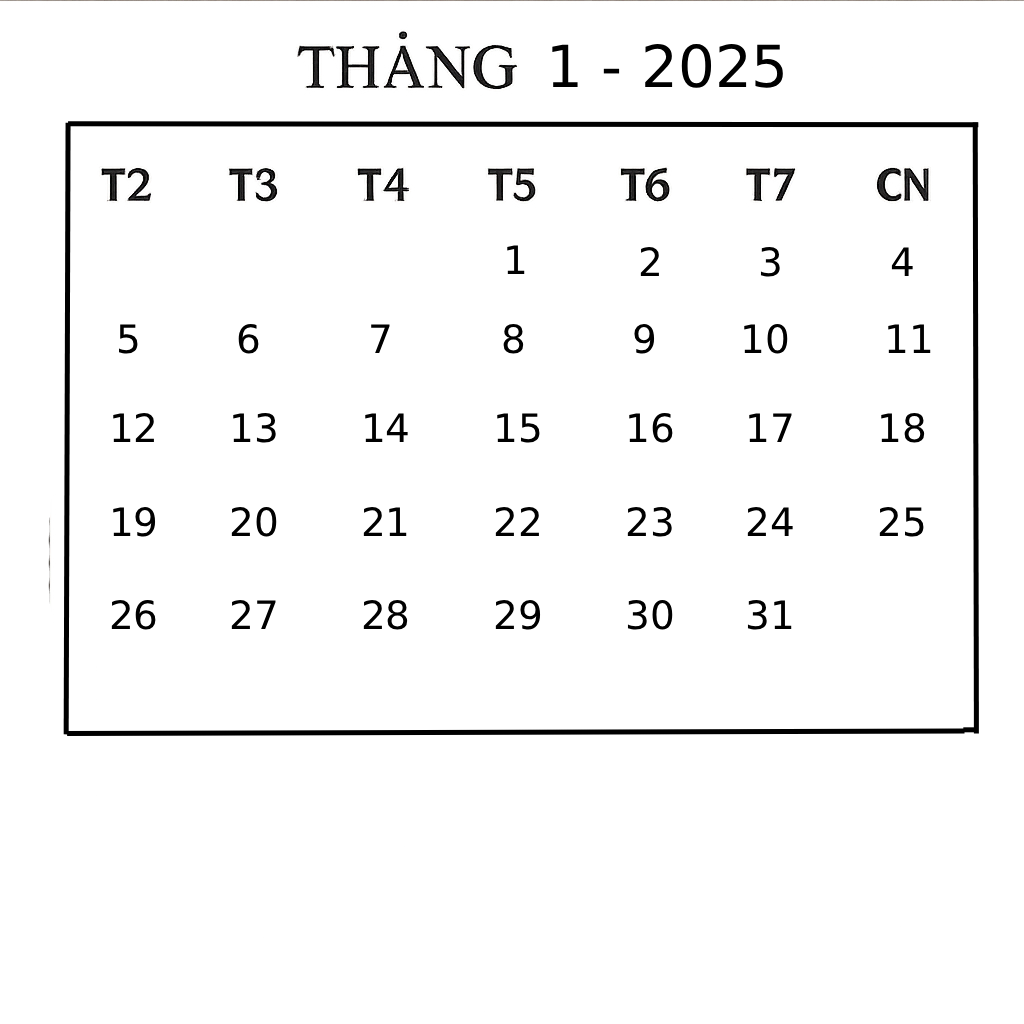
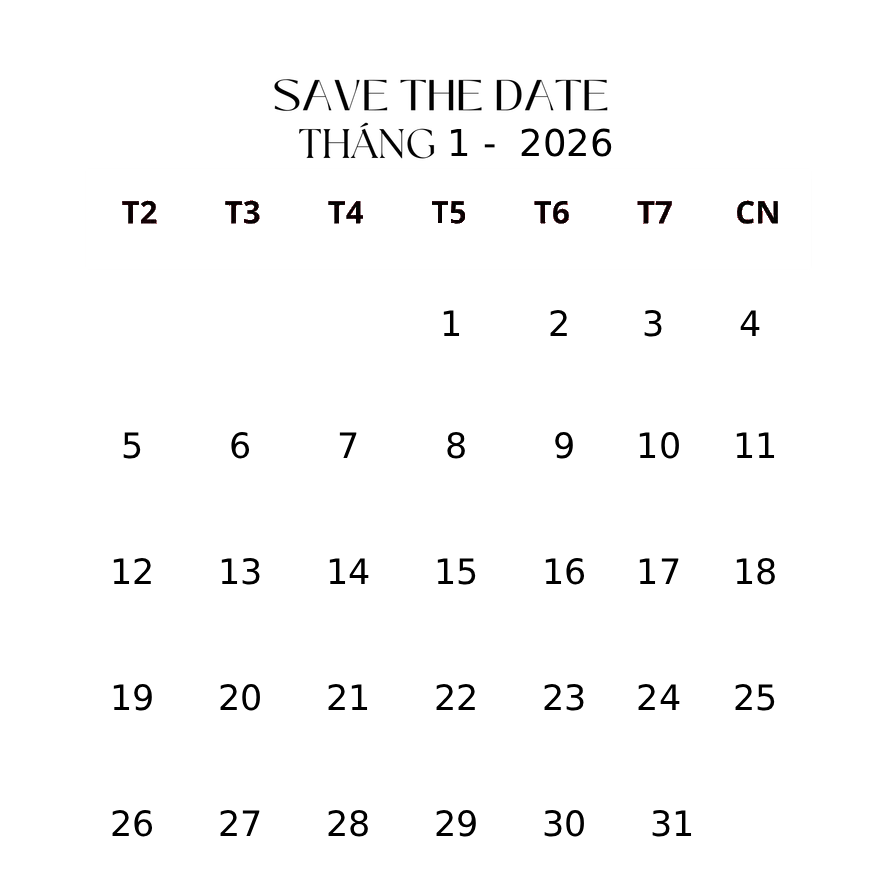
update

diff --git a/index.html b/index.html
@@ -1885,7 +1885,7 @@
             width: 130.70662993953886px;
             height: 192.68002356079901px;
             top: 0px;
-            left: 0px;
+            left: -8px;
             background: center center/ cover no-repeat scroll content-box border-box url("./images/z7402100149161_f9faabdac546163ebe8abafa0fc40bd9.jpg");
             --type: 0;
         }
@@ -1915,7 +1915,7 @@
             width: 188.90549468185813px;
             height: 251.78843788437885px;
             top: 0px;
-            left: 0px;
+            left: -23px;
             background: center center/ cover no-repeat scroll content-box border-box url("./images/z7401099418859_159cf99a9b3bedcadd84232dd9a66118.jpg");
             --type: 0;
         }
@@ -1945,7 +1945,7 @@
             width: 142.00099047400667px;
             height: 189.2703419225551px;
             top: 0px;
-            left: 0px;
+            left: -9px;
             background: center center/ cover no-repeat scroll content-box border-box url("./images/z7401099407848_ceb1ce4825968d3d5d17e92947355fd5.jpg");
             --type: 0;
         }
@@ -2170,10 +2170,10 @@
         }
 
         #w-u1yjrfx4 .image-background {
-            width: 420px;
-            height: 446px;
+            width: 381px;
+            height: 357px;
             top: -17px;
-            left: 0px;
+            left: 37px;
             background: center center/ cover no-repeat scroll content-box border-box url("./images/savethedate.png");
             --type: 0;
         }
@@ -2501,7 +2501,7 @@
         }
 
         #w-j94n7dxm {
-            top: 1455px;
+            top: 1515px;
             left: 274.53327560424805px;
             width: 89px;
             height: 89px;
@@ -5902,7 +5902,7 @@
             width: 130.70662993953886px;
             height: 192.68002356079901px;
             top: 0px;
-            left: 0px;
+            left: -8px;
             background: center center/ cover no-repeat scroll content-box border-box url("./images/z7402100149161_f9faabdac546163ebe8abafa0fc40bd9.jpg");
             --type: 0;
         }
@@ -5932,7 +5932,7 @@
             width: 188.90549468185813px;
             height: 251.78843788437885px;
             top: 0px;
-            left: 0px;
+            left: -23px;
             background: center center/ cover no-repeat scroll content-box border-box url("./images/z7401099418859_159cf99a9b3bedcadd84232dd9a66118.jpg");
             --type: 0;
         }
@@ -5962,7 +5962,7 @@
             width: 142.00099047400667px;
             height: 189.2703419225551px;
             top: 0px;
-            left: 0px;
+            left: -9px;
             background: center center/ cover no-repeat scroll content-box border-box url("./images/z7401099407848_ceb1ce4825968d3d5d17e92947355fd5.jpg");
             --type: 0;
         }
@@ -6186,11 +6186,11 @@
             z-index: null;
         }
 
-        #w-u1yjrfx4 .image-background {
-            width: 420px;
-            height: 446px;
+         #w-u1yjrfx4 .image-background {
+            width: 381px;
+            height: 357px;
             top: -17px;
-            left: 0px;
+            left: 37px;
             background: center center/ cover no-repeat scroll content-box border-box url("./images/savethedate.png");
             --type: 0;
         }
@@ -6518,7 +6518,7 @@
         }
 
         #w-j94n7dxm {
-            top: 1455px;
+            top: 1515px;
             left: 274.53327560424805px;
             width: 89px;
             height: 89px;
@@ -9539,7 +9539,7 @@
                     </div>
                     <div id="w-inj6bm40" class="com-text-block p-absolute is-animation">
                         <div class="text-block">
-                            <h2 class="text-block-css full-width">23.11.2026</h2>
+                            <h2 class="text-block-css full-width">23.01.2026</h2>
                         </div>
                     </div>
                     <div id="w-p3vnquw0" class="com-text-block p-absolute is-animation">